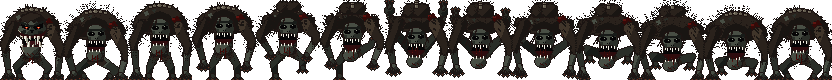
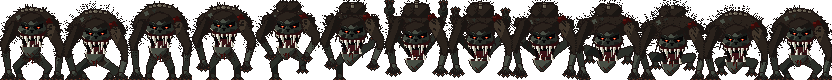
Draw the loper's feral face on all 13 run frames (draw_feral_head riding each pose's head bob and jaw lag, the old round head code removed) and write the face into the art-style rule (angular skull, red eyes, hooked fangs, a pale rim only on edges facing the upper-left light), because the owner appr
Claude-Session: https://claude.ai/code/session_01L7WWgy8TCoKFXU2ga5JUMW

diff --git a/tools/gen_enemy_sprites.py b/tools/gen_enemy_sprites.py
@@ -7,8 +7,8 @@ the claws on the van floor, hair that trails every bob, knobbed spine,
 hanging jaw, corpse-grey skin and black eye pits, nothing bright. The window raider (the low yellow crawler that
 fits through a side window) is still the first pass and waits for its own
 redraw. door_raider.png is a 13-frame 832 x 80 run sheet (a bounding charge,
-seen from the front); frame 0 is the still. Frame 0 alone has the
-feral face (draw_feral_head), a trial before the other frames get it.
+seen from the front); frame 0 is the still. Every frame has the
+feral face (draw_feral_head), riding the pose's head bob and jaw lag.
 
 Art rules (.claude/rules/art-style.md, pixel art): native size, one image
 pixel = one art pixel at pixel_size 0.024 (2.4 cm); flat colours, no
@@ -442,8 +442,7 @@ def fur_sway(frame: int) -> tuple[int, int]:
 	return 0, max(-3, min(3, -vy))
 
 
-FERAL_FRAMES = (0,)
-# The feral face (owner, 2026-10-03): the skull keeps the dark corpse skin, and the pale
+# The feral face on every run frame (owner, 2026-10-03): the skull keeps the dark corpse skin, and the pale
 # FACE tones only trace its edge (the lit left side, the chin, the cheekbone and jaw-hinge
 # points), so the player reads where the head (the head hitbox, rows 18-48) starts and ends
 # from as few bright pixels as possible; red eyes and a red-gummed maw of needle fangs make
@@ -471,7 +470,7 @@ def draw_fang(c: Canvas, x: int, y: int, w: int, length: int, lean: int = 0,
 
 
 def draw_feral_head(c: Canvas, hd: int, jy: int, by: int) -> None:
-	"""The feral head for FERAL_FRAMES: a long, angular, tilted skull with sharp
+	"""The feral head for every run frame: a long, angular, tilted skull with sharp
 	cheekbones and hollow cheeks, a V brow over slanted black sockets with burning red
 	eyes, a bare nasal pit, and a maw split almost ear to ear, red gums peeled back over
 	uneven needle fangs, the lower jaw hanging open with its fangs up and drool between."""
@@ -653,51 +652,7 @@ def draw_loper(frame: int = 0) -> Canvas:
 		(42, 15 + hd), (46, 24 + hd), (47, 34 + by)]))
 	c.fill(ruff, FUR_SH)
 	fur_fringe(c, ruff, seed=51, sway=sway, length=2 + flare, density=0.45, up_only=True)
-	if frame in FERAL_FRAMES:
-		draw_feral_head(c, hd, jy, by)
-		return c
-	head = Canvas(LOPER_SIZE)
-	kx, ky, krx, kry = 32, 29, 9, 11
-	skull_oval = ellipse(kx, ky, krx, kry)
-	skull = head.mask(lambda x, y: skull_oval(x - (y - ky) * 0.12, y))
-	head.part(skull, SKIN, SKIN_SH, SKIN_HI, light(kx, ky, krx, kry), 0.2, -1.0)
-	head.fill(head.mask(capsule(24, 24, 40, 23, 1.2)), SKIN_DEEP)
-	head.fill(head.mask(ellipse(27, 27.5, 3.6, 2.4)), PIT)
-	head.fill(head.mask(ellipse(36.5, 27, 3.0, 2.1)), PIT)
-	head.set(28, 27, GLINT)
-	head.set(36, 26, GLINT)
-	head.fill({p for p in skull if p[1] >= 31 and (p[0] <= 26 or p[0] >= 38)}, SKIN_SH)
-	head.set(31, 32, PIT)
-	head.set(33, 32, PIT)
-	# The mouth stays with the skull: a round black mouth, a dark red throat, uneven
-	# teeth on top; the lower jaw hangs below it on its own layer.
-	mouth = head.mask(both(ellipse(31.5, 40, 8.5, 6), lambda x, y: y >= 35))
-	head.outline(mouth)
-	head.fill(mouth, PIT)
-	head.fill({p for p in mouth if p[1] >= 41}, GUM)
-	for x, depth in ((25, 2), (27, 3), (30, 2), (32, 4), (35, 2), (38, 3)):
-		for y in range(35, 35 + depth):
-			head.set(x, y, TEETH)
-	c.blit(head, 0, hd)
-	# Matted hair from the ruff past the cheeks, the ends trailing the bob and flicking.
-	for x0, y0, x1, y1 in ((25, 19, 20, 31), (23, 23, 17, 32), (28, 18, 27, 21),
-			(40, 20, 44, 29)):
-		draw_strand(c, x0, y0 + hd, x1, y1 + jy + sway[1])
-	# The jaw hangs open and off to one side, swinging a beat behind the head.
-	jaw = Canvas(LOPER_SIZE)
-	jaw_m = jaw.mask(both(ellipse(30, 48, 7.5, 5.5), lambda x, y: y >= 44))
-	jaw.part(jaw_m, SKIN, SKIN_SH, SKIN_HI, light(30, 48, 8, 5), 0.2, -1.1)
-	for x, top in ((25, 43), (28, 42), (32, 43), (35, 42)):
-		for y in range(top, 45):
-			jaw.set(x, y, TEETH)
-	# Blood on the chin, dripping down the belly.
-	for x, y in ((28, 50), (29, 51), (30, 51), (33, 50), (34, 51), (31, 52)):
-		jaw.set(x, y, BLOOD_DARK)
-	c.blit(jaw, 0, jy)
-	for x, y0, y1 in ((28, 52, 57), (33, 52, 61), (31, 53, 55)):
-		for y in range(y0 + by, y1 + by):
-			c.set(x, y, BLOOD_DARK)
-		c.set(x, y1 + by, BLOOD)
+	draw_feral_head(c, hd, jy, by)
 	return c
 
 

diff --git a/.claude/rules/art-style.md b/.claude/rules/art-style.md
@@ -298,12 +298,19 @@ knobs poking through), in a mangy soot-black coat (sRGB 42,34,28 fur, 25,21,18
 shadow, 64,53,42 highlight, bare skin patches), never balls joined by
 ellipses: tapered limbs with fur sleeves and hip tufts, a furred rump, and hair
 tufts on every edge that trail the bob by a frame and flare on landing; arms
-longer than the legs with the claws on the floor, a tilted
-gaunt skull with a dark brow over black eye pits (one pale pixel each, looking
-up), a round hanging jaw with uneven teeth over a dark red throat, a torn
-shoulder and blood down the belly. Corpse grey-green skin (sRGB 72,78,68 base,
-42,46,40 shadow, 104,110,96 highlight), bone and teeth under 0.35 linear,
-nothing above the albedo budget, so it reads as a shape the dark swallows.
+longer than the legs with the claws on the floor, a torn shoulder and blood
+down the belly. The head is the feral face (owner, 2026-10-03, every run frame,
+`draw_feral_head`): a long angular skull, never round, under a matted hair cap,
+a hard V brow over slanted black sockets with red eyes (sRGB 214,30,22, one
+255,214,120 hot pixel each), a bare nasal pit, and a maw split into the cheeks
+with red gums, tapered hooked fangs (two long upper canines, never even human
+teeth) and a hanging pointed jaw with its fangs up. Corpse grey-green skin
+(sRGB 72,78,68 base, 42,46,40 shadow, 104,110,96 highlight), so the body reads
+as a shape the dark swallows. The one exception is the face, so the player
+finds the head hitbox: pale rim pixels (sRGB 176,172,150, mid 134,132,114) only
+on the face's edges that face the upper-left light (left temple and cheek, the
+jaw's left edge), about 20 pixels; never a pale fill, never on the chin or the
+right side, and no marks under the eyes (they read as blushing).
 Asymmetry (the tilted head, one arm lower, uneven teeth) is what keeps a
 sprite from reading as cute. The window raider is still the first-pass
 yellow cat crawler (80 x 48, 1.15 m tall, so it fits a side window) and waits
